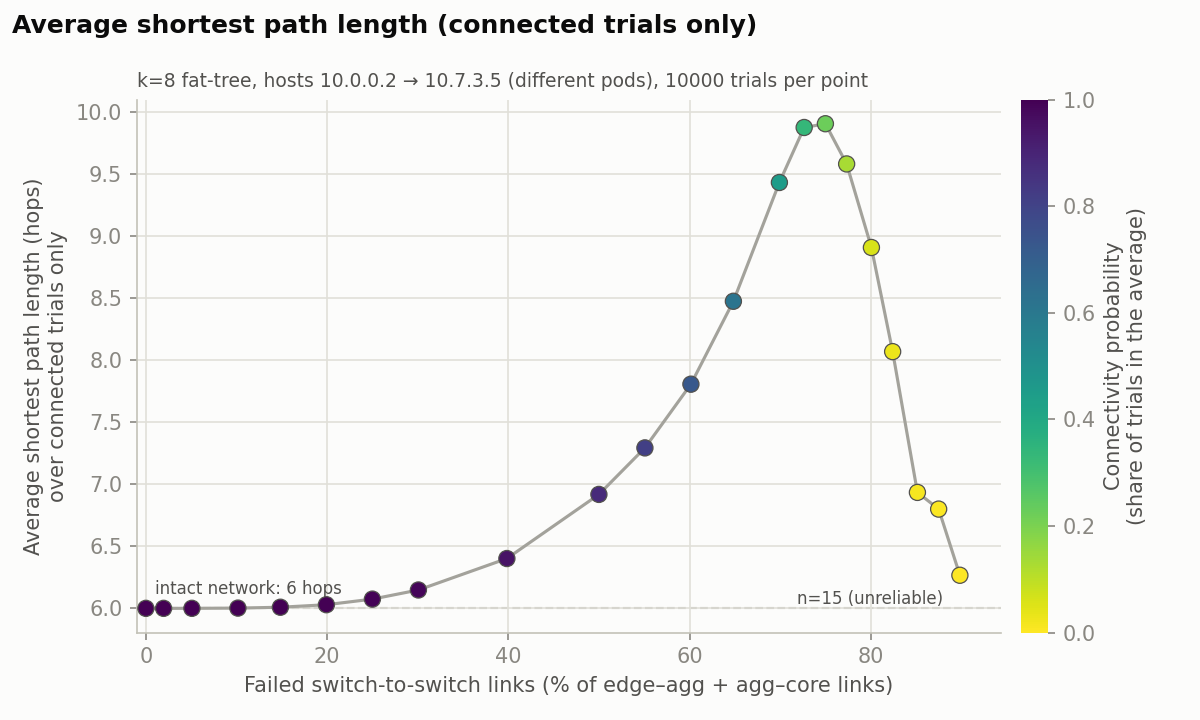
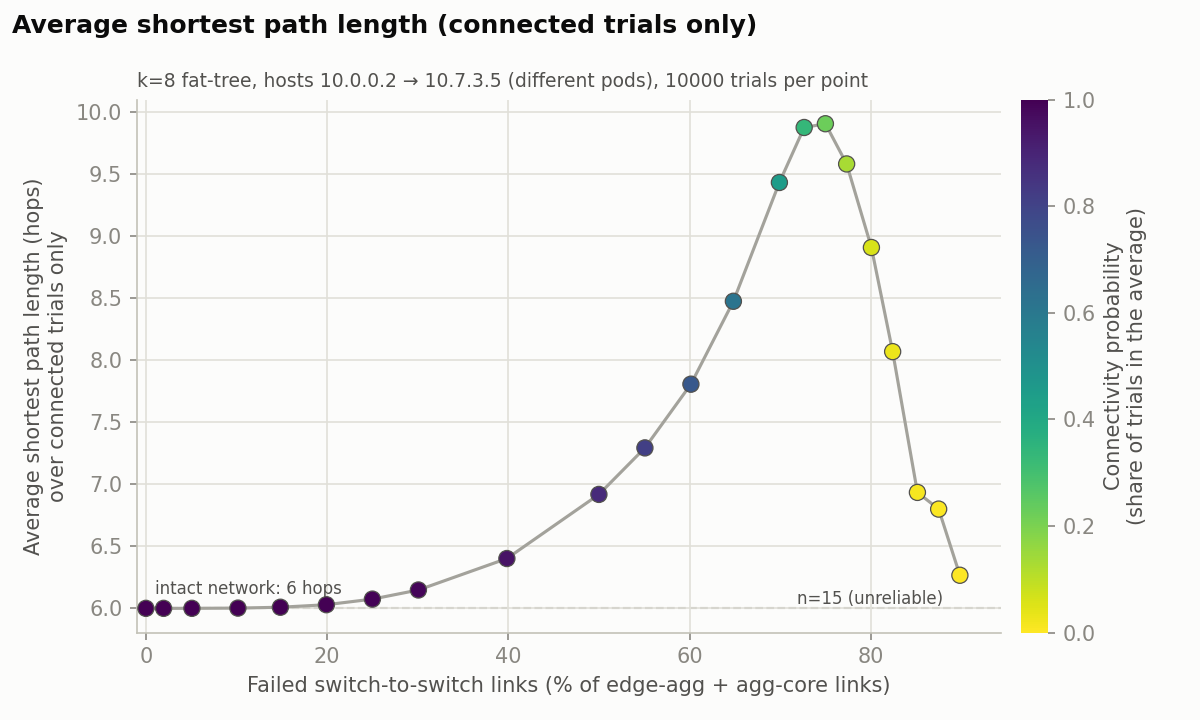
minor readme changes

Changed region(s): [[0.2158, 0.9167, 0.555, 0.9778], [0.6475, 0.9167, 0.74, 0.9778]]

diff --git a/plot_results.py b/plot_results.py
@@ -22,7 +22,7 @@ BLUE = "#2a78d6"
 GRAY = "#a3a29b"
 LOW_N = 30  # fewer connected trials than this -> the average is labelled unreliable
 
-XLABEL = "Failed switch-to-switch links (% of edge–agg + agg–core links)"
+XLABEL = "Failed switch-to-switch links (% of edge-agg + agg-core links)"
 
 plt.rcParams.update({
     "figure.facecolor": SURFACE, "axes.facecolor": SURFACE,

diff --git a/README.md b/README.md
@@ -1,15 +1,10 @@
-# HW1 – Fat-Tree Topology Generation and Failure Analysis
-
-Course 361.2.2460 – Communication networks for data centers and AI, Semester A 2026/27.
+# HW1 - Fat-Tree Topology Generation and Failure Analysis
 
 This project builds the k-ary fat-tree from Al-Fares et al. [1], randomly fails
 switch-to-switch links, and answers the question:
 
 **How does the average shortest path length between two hosts in different pods change as
 the fraction of failed inter-switch links increases?**
-
-The graph, the failure model and BFS are written in plain Python, with no graph library.
-`matplotlib` is used only for the plots.
 
 ## 1. The fat-tree topology
 
@@ -26,9 +21,9 @@ and Figure 3):
 
 The tiers are wired as follows:
 
-* **Host – Edge:** each edge switch connects to k/2 hosts.
-* **Edge – Aggregation:** each edge switch connects to every aggregation switch in its pod.
-* **Aggregation – Core:** the cores form k/2 rows of k/2. Aggregation switch `a` of every
+* **Host - Edge:** each edge switch connects to k/2 hosts.
+* **Edge - Aggregation:** each edge switch connects to every aggregation switch in its pod.
+* **Aggregation - Core:** the cores form k/2 rows of k/2. Aggregation switch `a` of every
   pod connects to all cores in row `a`. So each core has exactly one link to each pod,
   as in the paper's Figure 3.
 
@@ -94,8 +89,8 @@ Shortest path 10.0.0.2 -> 10.7.3.5: 6 hops
 | `--k` | 4 | Switch port count (even integer ≥ 2) |
 | `--failure-rate` / `--failure-percent` | 0 | Fraction [0, 1] or percentage [0, 100] of switch-to-switch links to fail (use only one of them) |
 | `--seed` | 0 | Random seed for the failures |
-| `--src`, `--dst` | first host of pod 0, last host of pod k−1 | Hosts in the paper's format `10.pod.edge.id` |
-| `--edges-out PATH` | – | Write the surviving links to a file |
+| `--src`, `--dst` | first host of pod 0, last host of pod k-1 | Hosts in the paper's format `10.pod.edge.id` |
+| `--edges-out PATH` | - | Write the surviving links to a file |
 | `--show-failed` | off | Print the failed links |
 
 **`experiment.py`**
@@ -115,7 +110,7 @@ an error message.
 
 ## 5. Failure model
 
-* Only **switch-to-switch links** can fail (edge–agg and agg–core, 256 links for k = 8).
+* Only **switch-to-switch links** can fail (edge-agg and agg-core, 256 links for k = 8).
   Host links never fail, since each host has only one link.
 * For a failure rate f, exactly **n = round(f × 256)** distinct links fail, chosen uniformly
   at random. The plots show the actual percentage. For example, 10% becomes 26 links,
@@ -181,7 +176,7 @@ few.
   at 85%, and 6.27 at 90%.
 
 **Why? Survivorship bias.** The average includes only the trials that are still connected.
-A long detour needs many links to survive, a short path only a few. When 85–90% of the
+A long detour needs many links to survive, a short path only a few. When 85-90% of the
 links are down, long detours almost never survive. So the few trials that are still
 connected are mostly those where a *short* path happened to survive. More failures never
 shorten the path within a single trial. The average drops only because trials with long
@@ -204,11 +199,11 @@ This is why the colour matters: at 90%, "6.3 hops" describes only 15 of 10,000 t
 
 ## 9. AI assistance disclosure
 
-I declare that I used AI (Claude by Anthropic, via Claude Code) to write this project.
+I declare that I used an AI tool (Claude Code) to help me with writing and implementing this project.
 I have reviewed and understand all of it, and I take full responsibility for it.
 
 ## Reference
 
 [1] M. Al-Fares, A. Loukissas, and A. Vahdat, "A scalable, commodity data center network
-architecture," *SIGCOMM Comput. Commun. Rev.*, vol. 38, no. 4, pp. 63–74, Oct. 2008,
+architecture," *SIGCOMM Comput. Commun. Rev.*, vol. 38, no. 4, pp. 63-74, Oct. 2008,
 doi: 10.1145/1402946.1402967.
